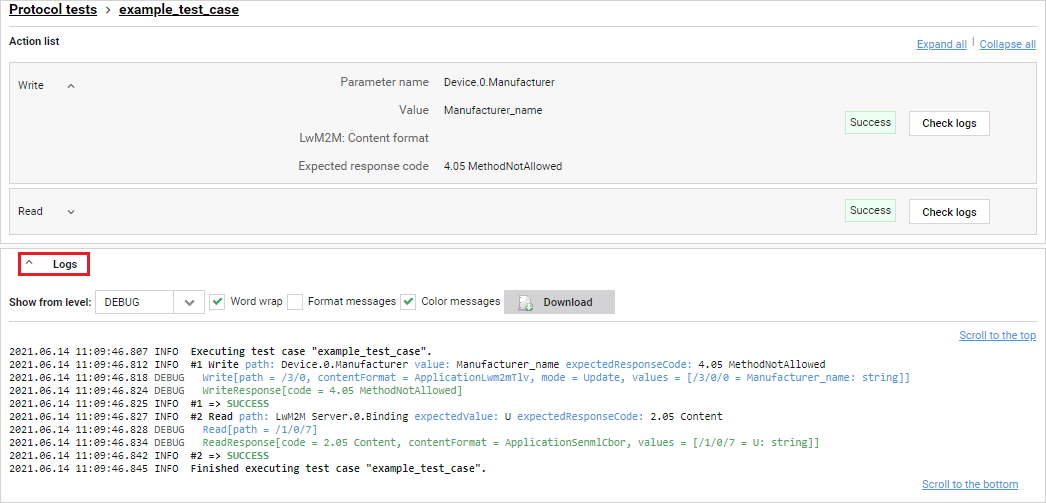
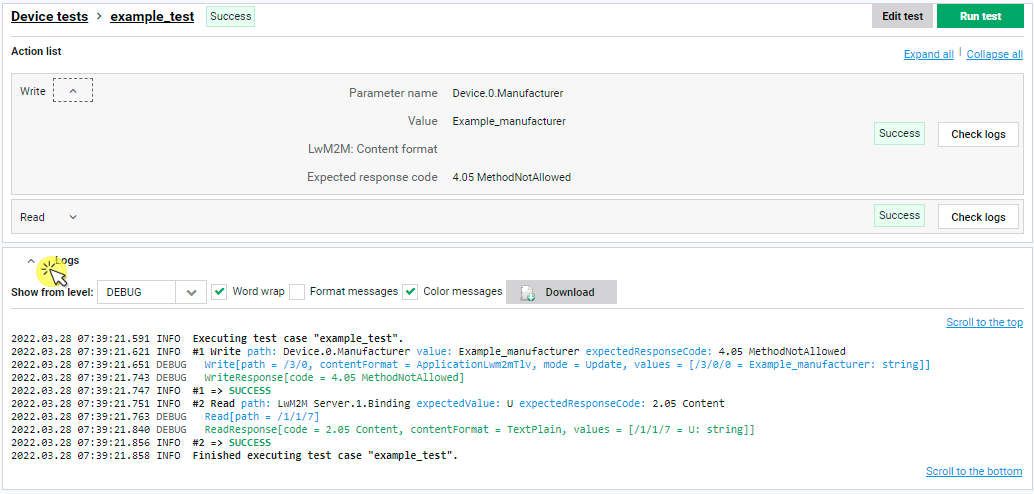
review and fixes

Changed region(s): [[0.0, 0.0, 1.0, 1.0]]

diff --git a/docs/Device_tests/Test_actions.md b/docs/Device_tests/Test_actions.md
@@ -14,28 +14,7 @@ However, to set up a test, not all attributes are mandatory. The general rule is
 
 ## Description of Actions
 
-Within the Server simulator test cases, the following Actions are available (with mandatory attributes written in bold):
-
-1.	READ
-2.	WRITE
-3.	EXECUTE
-4.	DISCOVER
-5.	DELETE
-6.	CREATE
-7.	WRITE ATTRIBUTES
-8.	CLEAR ATTRIBUTES
-9.	OBSERVE
-10.	CANCEL OBSERVE
-11.	Firmware Update
-12.	Wait
-13.	Pause response
-14.	Wait for uplink request
-15.	Send paused response
-16.	Start Notification recording
-17.	Expect Notification
-18. Start Send recording
-19. Expect Send
-20.	Loop start
+Within the Server simulator tests, the following Actions are available.
 
 ### READ
 
@@ -44,7 +23,7 @@ READ is used to access the value of an object, object instances, a resource and 
 ![READ action configuration](images/image031.png "READ action configuration")
 
  - Parameter name – the name of the data model parameter you want to read. Note that it can be specified either using the full name in the string (e.g. ‘Device.0.Manufacturer) or the numerical (e.g. 3.0.1) value of the parameter.
- - Expected value – if the value you enter here equals the value read from the device, the test will be passed. If left blank, the value will only show up in the test case log and it will have no impact on the test case result. Note that this READ attribute works only for Resources and Resource Instances.
+ - Expected value – if the value you enter here equals the value read from the device, the test will be passed. If left blank, the value will only show up in the test log and it will have no impact on the test result. Note that this READ attribute works only for Resources and Resource Instances.
  - Expected response code – if the response code you enter here equals the response code returned by the device, the test will be passed. If left blank, the server will expect the default response code defined by the LwM2M standard.
  - LwM2M: Requested content format – the content format of the device answer that you request for your read operation. If the device doesn’t support the requested format, the test will fail. If left blank, the device can decide what content format to use; any format will be accepted.
 
@@ -159,7 +138,7 @@ Firmware Update is used to perform a firmware update operation on the test devic
  - Firmware – the ID of the resource used as the firmware source.
  - Update timeout – the time period in seconds within which the firmware update should be completed. In case the timeout is up and the update process has not finished, the action will fail.
  - Delivery method – The protocol and transfer method used to deliver the firmware file to the device.
- - Use notifications – if set to true, an OBSERVE will be issued automatically for the ‘State’ and ‘Update result’ parameters while upgrading the device. The notifications returned by the device will be visible in the test case logs.
+ - Use notifications – if set to true, an OBSERVE will be issued automatically for the ‘State’ and ‘Update result’ parameters while upgrading the device. The notifications returned by the device will be visible in the test logs.
  - Expected update result – if the update result you enter here equals the result returned by the device, the test will be passed. If left blank, the server will expect the default result defined by the LwM2M standard. You can choose among the ten update results defined as per the LwM2M protocol specification.
 
 ### WAIT
@@ -169,7 +148,7 @@ Wait is used to set the waiting time before executing the next action. You can d
 ![Wait action configuration](images/image042.png "Wait action configuration")
 
  - Waiting time – the interval set before the next action is executed.
- - In progress message – a custom text that will be displayed as the test case progress message while waiting for the execution of the next action.
+ - In progress message – a custom text that will be displayed as the test progress message while waiting for the execution of the next action.
 
 ### Pause response
 
@@ -187,7 +166,7 @@ Wait for uplink request is used to prevent the server from executing any tasks o
 
  - Request type to wait for – the kind of request you want to wait for.
  - Timeout – the time period in seconds within which the uplink request should arrive. In case the timeout is up with no request, the action will fail.
- - Waiting message – the message displayed during the test case execution while waiting for the arrival of the uplink request.
+ - Waiting message – the message displayed during the test execution while waiting for the arrival of the uplink request.
 
 ### Send paused response
 
@@ -212,7 +191,7 @@ Expect Notification is used to check if recorded Notifications match the require
  - Expected value – use it to check if there is any notification that has a given value and matches all other criteria.
  - Expected arrival order – use it to limit the validation only to one notification on a given path that arrived in a given order since the last Start Notification recording action. Note that the counting starts from 0 and that the Observe response is also counted if it is executed after the recording action started.
  - Timeout – if the expected notification does not arrive within this time limit, the action will fail.
- - Waiting message – a custom text that will be displayed as the test case progress message while waiting for the action execution.
+ - Waiting message – a custom text that will be displayed as the test progress message while waiting for the action execution.
 
 ### Start Send recording
 
@@ -233,7 +212,7 @@ Expect Send is used to check if recorded Send messages match the required criter
 
 ### Loop start
 
-Loop start is used to repeat an action or a set of actions within a test case. Note that when configuring the first action inside the loop, the Loop end action is added automatically.
+Loop start is used to repeat an action or a set of actions within a test. Note that when configuring the first action inside the loop, the Loop end action is added automatically.
 
 ![Loop start action configuration](images/image050.png "Loop start action configuration")
 

diff --git a/docs/Device_tests/Getting_started.md b/docs/Device_tests/Getting_started.md
@@ -21,7 +21,7 @@ A device that is added and registered in the platform.
 ![Configure your test](images/interop3.png "Configure your test")
 
 * Provide a name for your test.
-* Under the **Action list**, click**Add action** and select **Write** from the drop down list and provide data for the following fields:
+* Under the **Action list**, click **Add action**, select **Write** from the drop down list and provide data for the following fields:
     * **Parameter name**: `Device.0.Manufacturer`,
     * **Expected value**: `Example_manufacturer`,
     * **Expected response code**: `4.05 MethodNotAllowed`.
@@ -31,7 +31,7 @@ A device that is added and registered in the platform.
     * **Expected response code**: `2.05 Content`.
 * Click **Add a new test**.
 
-## Run the test on device
+## Run test on your device
 
 1. In the **Device inventory**, select a currently registered device and enter its **Device Management Center**.
 2. In **Device Management Center**, select the **Device tests** tab.
@@ -42,10 +42,10 @@ A device that is added and registered in the platform.
 3. Tick the test you have just created and click **Run selected (1)**.
 ![Running a test](images/interop5.png "Running a test")
 
-4. After a few moments, the execution should end and test status changes from `In progress` to `Success`.  
+4. After a few moments, the execution ends and the test status should change from `In progress` to `Success`.  
 
 !!! tip
-    The `Success` status of a test is a measure of the correctness of the device response against the expected test parameters. Depending on the device and tester's needs, there may be tests that are `successful` when the device responds with a *Failure* message (similarly to the example presented in this section).
+    The `Success` status of a test measures the correctness of the device response against the expected test parameters. Depending on the device and tester's needs, there may be tests that are *successful* when the device responds with a *Failure* message (similarly to the example presented in this section).
 
 ## Check test execution details
 

diff --git a/docs/Device_tests/Configure_tests.md b/docs/Device_tests/Configure_tests.md
@@ -34,7 +34,7 @@ To enter the panel, select **Device test repository** and then **Server simulato
 
 ##	Listing tests
 
-The tests appearing in the **Device test repository** panel are presented in the form of a searchable alphabetical list to ensure their convenient viewing and management. Read on this section to learn how to use the search to list your test cases.
+The tests appearing in the **Device test repository** panel are presented in the form of a searchable alphabetical list to ensure their convenient viewing and management. Read on this section to learn how to use the search to list your tests.
 
 ### Using the search
 
@@ -87,6 +87,10 @@ Read this section to learn how to add a new test. You can either add a test manu
 2.	Click **Add test** and select **Import tests from .conf file**.
 3.  A dialogue box prompting you to import a `.conf` file appears. Add the file and click **Import**.
 
+!!! tip
+    To download tests into a `.conf` file, check the [Downloading tests](#downloading-tests) section.
+
+
 ## Editing tests
 
 Read this section to learn how to edit a test.
@@ -132,10 +136,10 @@ Read this section to learn how to delete tests.
 Read this section to learn how to export tests.
 
 1.	From the navigation menu, select **Device test repository**.
-2.	From the list, select the tests you want to export.
+2.	From the list, select the test(s) you want to export.
 3.  There are two ways to download the selected tests:
-    * Click the **Actions** drop-down menu and select **Download test**.
-    * Click the context menu :material-dots-vertical: on the right and select **Download test**.
+    * for batch export, click the **Actions** drop-down menu and select **Download tests**.
+    * for single test export, click the context menu :material-dots-vertical: on the right the test entry and select **Download test**.
   3. The tests are downloaded in the ``.conf`` format.
 
 !!! tip

diff --git a/docs/Device_tests/Overview.md b/docs/Device_tests/Overview.md
@@ -1,6 +1,6 @@
 # Overview
 
 Device tests are a comprehensive and convenient solution for the customization and performance of LwM2M protocol tests on LwM2M devices.
-Offered as part of the Coiote IoT Device Management platform, it enables you develop tests from scratch to tailor them to your devices, or use the ready-made tests (including scenarios described in **OMA Enabler Test Specification** for Lightweight M2M by **OMA SpecWorks** and scenarios created by **AVSystem**).
+Offered as part of the **Coiote IoT Device Management** platform, it enables you develop tests from scratch to tailor them to your devices, or use the ready-made test scenarios (including those described in the **OMA Enabler Test Specification** for Lightweight M2M by **OMA SpecWorks** and the scenarios created by **AVSystem**).
 
 The following guide walks you through the basic functionalities of the device tests solution. You will learn how to configure, run and manage your tests and get to know in detail each possible action that can be defined within a test.

diff --git a/docs/Device_tests/Run_tests.md b/docs/Device_tests/Run_tests.md
@@ -1,4 +1,4 @@
-# Running tests
+# Run tests
 
 If you have tests configured in the platform, you can run them on your device using the **Device tests** panel. Read this chapter to learn how to display test descriptions, start and stop test execution and view test results and logs.
 
